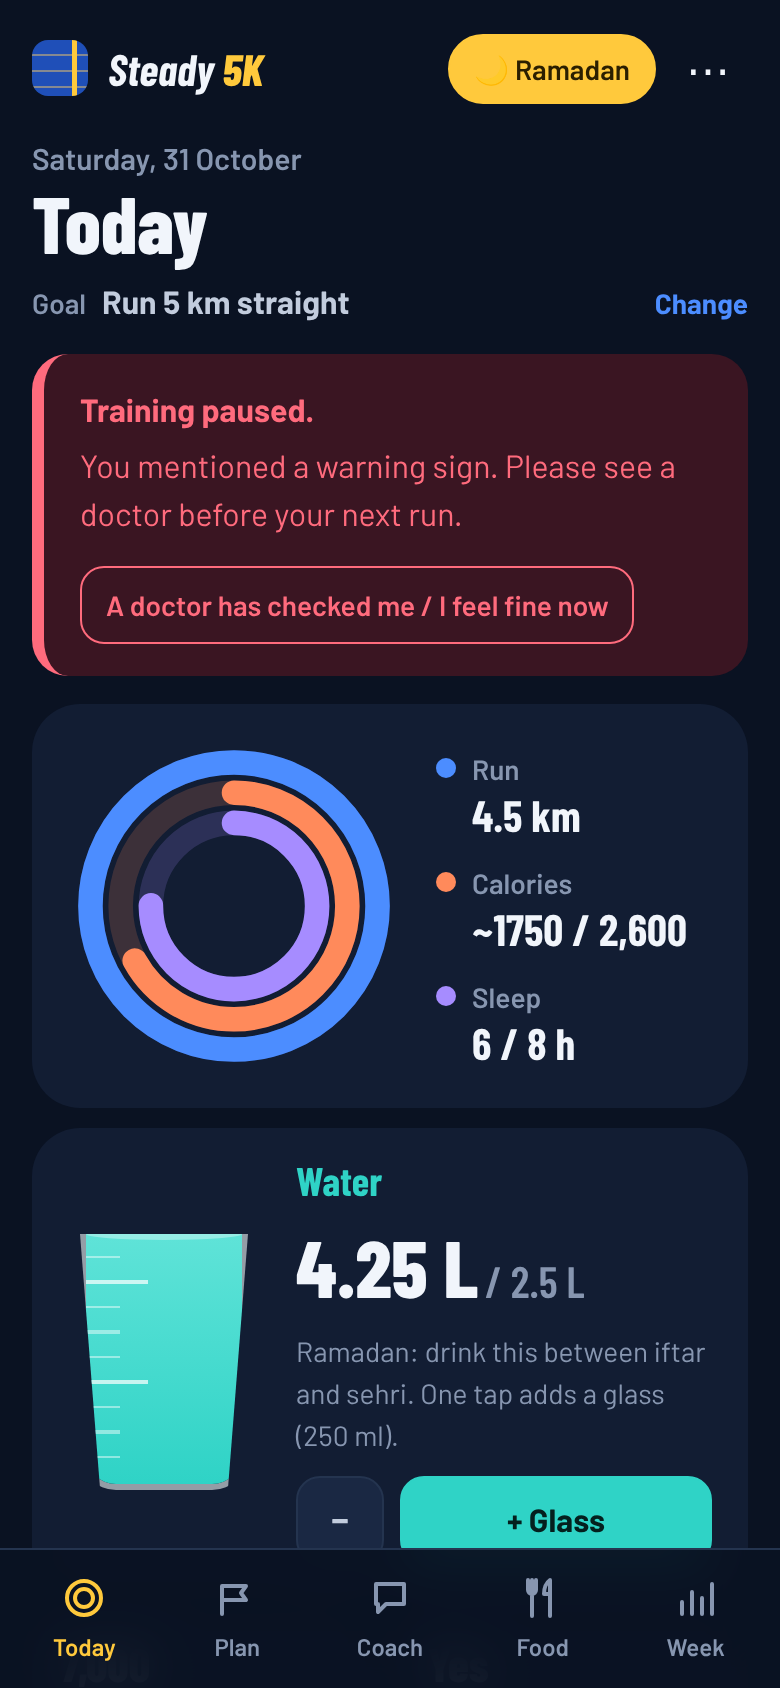
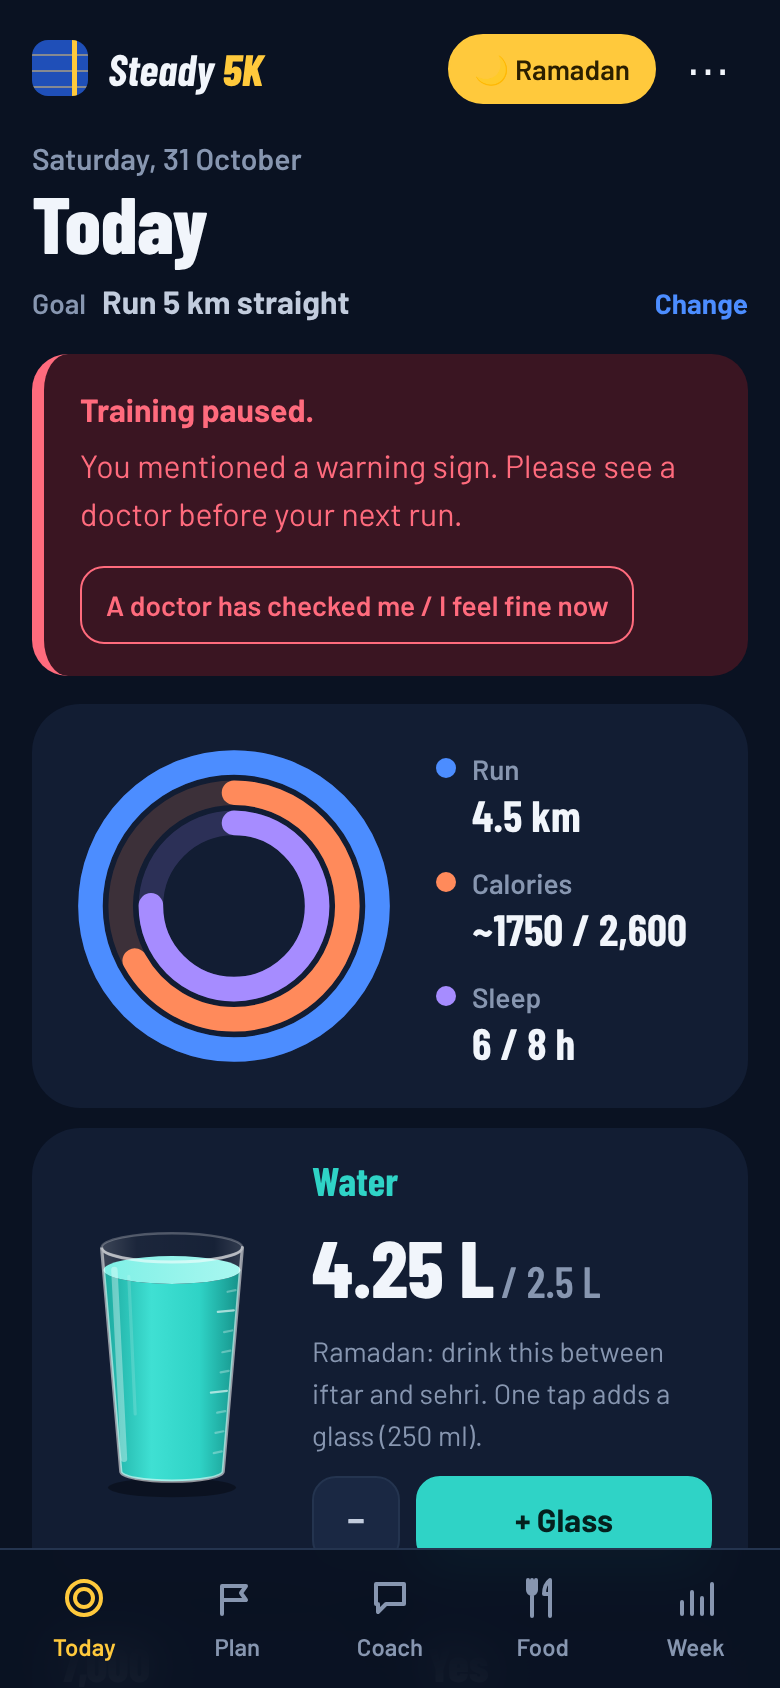
3D water glass: tapered tumbler with rim, reflections and measure marks; water pours in, rises smoothly and ripples
Claude-Session: https://claude.ai/code/session_01KnAXkYM5bv2tZhbofiWiib

diff --git a/app.js b/app.js
@@ -373,9 +373,58 @@
     save(); renderToday();
   }
 
+  // ---------- 3D water glass (SVG): tapered tumbler, rising water, pour and ripple ----------
+  const G = { rimY: 16, baseY: 156, rimW: 44, baseW: 32, rimRy: 9, baseRy: 6, maxY: 30 };
+  let glassLevel = null, glassAnim = 0;
+  const gW = (y) => G.baseW + (G.rimW - G.baseW) * (G.baseY - y) / (G.baseY - G.rimY);
+  const gRy = (y) => G.baseRy + (G.rimRy - G.baseRy) * (G.baseY - y) / (G.baseY - G.rimY);
+  const levelY = (f) => G.baseY - f * (G.baseY - G.maxY);
+  function paintLevel(f) {
+    const y = levelY(f), w = gW(y), ry = gRy(y);
+    const body = f <= 0.001 ? '' : `M${60 - w} ${y} L${60 - G.baseW} ${G.baseY} A${G.baseW} ${G.baseRy} 0 0 0 ${60 + G.baseW} ${G.baseY} L${60 + w} ${y} A${w} ${ry} 0 0 1 ${60 - w} ${y}Z`;
+    $('waterBody').setAttribute('d', body);
+    const top = $('waterTop');
+    top.setAttribute('cy', y); top.setAttribute('rx', f <= 0.001 ? 0 : w); top.setAttribute('ry', f <= 0.001 ? 0 : ry);
+  }
+  function drawGlass(f, glasses) {
+    $('glassBack').setAttribute('d', `M${60 - G.rimW} ${G.rimY} L${60 - G.baseW} ${G.baseY} A${G.baseW} ${G.baseRy} 0 0 0 ${60 + G.baseW} ${G.baseY} L${60 + G.rimW} ${G.rimY} A${G.rimW} ${G.rimRy} 0 0 0 ${60 - G.rimW} ${G.rimY}Z`);
+    $('glassFront').setAttribute('d', `M${60 - G.rimW} ${G.rimY} L${60 - G.baseW} ${G.baseY} A${G.baseW} ${G.baseRy} 0 0 0 ${60 + G.baseW} ${G.baseY} L${60 + G.rimW} ${G.rimY} A${G.rimW} ${G.rimRy} 0 0 1 ${60 - G.rimW} ${G.rimY}`);
+    $('glassMarks').innerHTML = Array.from({ length: glasses - 1 }, (_, i) => {
+      const y = levelY((i + 1) / glasses), x = 60 + gW(y);
+      return `<path d="M${x - ((i + 1) % 4 ? 7 : 12)} ${y + 1} L${x - 2} ${y}" stroke="#fff" stroke-opacity="${(i + 1) % 4 ? 0.3 : 0.6}" stroke-width="1.4" stroke-linecap="round"/>`;
+    }).join('');
+    const reduce = matchMedia('(prefers-reduced-motion: reduce)').matches;
+    if (glassLevel === null || reduce) { glassLevel = f; paintLevel(f); return; }
+    const from = glassLevel, to = f, t0 = performance.now(), dur = 900;
+    glassLevel = f; cancelAnimationFrame(glassAnim);
+    const step = (now) => {
+      const k = Math.min(1, (now - t0) / dur), e = 1 - Math.pow(1 - k, 3);
+      paintLevel(from + (to - from) * e);
+      if (k < 1) glassAnim = requestAnimationFrame(step);
+    };
+    glassAnim = requestAnimationFrame(step);
+  }
+  function pour(f) {
+    if (matchMedia('(prefers-reduced-motion: reduce)').matches) return;
+    const y = levelY(Math.min(1, f)), st = $('stream'), rp = $('ripple');
+    st.setAttribute('height', y + 20); st.style.transition = 'none'; st.setAttribute('opacity', '1');
+    rp.setAttribute('cy', y); rp.setAttribute('rx', 4); rp.setAttribute('ry', 1.5); rp.setAttribute('opacity', '1');
+    const t0 = performance.now();
+    const step = (now) => {
+      const k = Math.min(1, (now - t0) / 900);
+      st.setAttribute('opacity', k < 0.55 ? 1 : Math.max(0, 1 - (k - 0.55) / 0.45));
+      st.setAttribute('width', 7 - 4 * k); st.setAttribute('x', 60 - (7 - 4 * k) / 2);
+      const w = gW(y) * 0.9 * k;
+      rp.setAttribute('rx', Math.max(4, w)); rp.setAttribute('ry', Math.max(1.5, gRy(y) * 0.9 * k)); rp.setAttribute('opacity', 1 - k);
+      if (k < 1) requestAnimationFrame(step); else st.setAttribute('height', 0);
+    };
+    requestAnimationFrame(step);
+  }
+
   function addWater(delta) {
     S.logs.push({ date: dayKey(), at: Date.now(), kind: 'water', text: delta > 0 ? '+1 glass' : '−1 glass', parsed: { log: { water_l: delta, meals: [], symptoms: [] } } });
     save(); renderToday();
+    if (delta > 0) { const T2 = dayTotals(dayKey()); pour(T2.water_l / (S.ramadan ? 2.5 : 3)); }
   }
 
   // Calorie goal: only Rizwan sets it; the app never suggests a number and refuses unsafe ones.
@@ -427,8 +476,7 @@
     ];
     // Water glass: fills in 250 ml glasses towards 3 L (2.5 L between iftar and sehri in Ramadan)
     const glasses = Math.round(waterGoal / 0.25);
-    $('glassFill').style.height = Math.min(100, (T.water_l / waterGoal) * 100) + '%';
-    $('glassMarks').innerHTML = Array.from({ length: glasses - 1 }, (_, i) => `<i style="bottom:${((i + 1) / glasses) * 100}%"></i>`).join('');
+    drawGlass(Math.min(1, T.water_l / waterGoal), glasses);
     $('waterAmt').textContent = `${+T.water_l.toFixed(2)} L`;
     $('waterGoal').textContent = `/ ${waterGoal} L`;
     $('waterHint').textContent = S.ramadan ? 'Ramadan: drink this between iftar and sehri. One tap adds a glass (250 ml).' : T.water_l >= waterGoal ? 'Goal reached. Keep sipping if it is hot or you ran.' : `One tap adds a glass (250 ml). ${Math.ceil((waterGoal - T.water_l) / 0.25)} glasses to go.`;

diff --git a/index.html b/index.html
@@ -98,7 +98,27 @@
           <ul class="legend" id="legend"></ul>
         </section>
         <section class="water-card" aria-label="Water today">
-          <div class="glass" id="glass" aria-hidden="true"><div class="glass-fill" id="glassFill"></div><div class="glass-marks" id="glassMarks"></div></div>
+          <div class="glass3d" aria-hidden="true">
+            <svg viewBox="0 0 120 176" id="glassSvg">
+              <defs>
+                <linearGradient id="gGlass" x1="0" x2="1"><stop offset="0" stop-color="#fff" stop-opacity=".18"/><stop offset=".25" stop-color="#fff" stop-opacity=".04"/><stop offset=".8" stop-color="#fff" stop-opacity=".02"/><stop offset="1" stop-color="#fff" stop-opacity=".14"/></linearGradient>
+                <linearGradient id="gWater" x1="0" x2="1"><stop offset="0" stop-color="#1BA89E"/><stop offset=".35" stop-color="#3FE0D3"/><stop offset=".7" stop-color="#2FD3C6"/><stop offset="1" stop-color="#159088"/></linearGradient>
+                <linearGradient id="gTop" x1="0" x2="1"><stop offset="0" stop-color="#7FF0E6"/><stop offset="1" stop-color="#A9F7F0"/></linearGradient>
+                <linearGradient id="gStream" x1="0" x2="1"><stop offset="0" stop-color="#2FD3C6" stop-opacity=".5"/><stop offset=".5" stop-color="#B8FFF8"/><stop offset="1" stop-color="#2FD3C6" stop-opacity=".5"/></linearGradient>
+              </defs>
+              <ellipse cx="60" cy="166" rx="40" ry="6" fill="#000" opacity=".35"/>
+              <path id="glassBack" fill="url(#gGlass)"/>
+              <ellipse id="rimBack" cx="60" cy="16" rx="44" ry="9" fill="none" stroke="#fff" stroke-opacity=".25" stroke-width="1.5"/>
+              <rect id="stream" x="56.5" y="-20" width="7" height="0" rx="3.5" fill="url(#gStream)" opacity="0"/>
+              <path id="waterBody" fill="url(#gWater)"/>
+              <ellipse id="waterTop" cx="60" rx="0" ry="0" fill="url(#gTop)"/>
+              <ellipse id="ripple" cx="60" rx="0" ry="0" fill="none" stroke="#E6FFFC" stroke-width="1.5" opacity="0"/>
+              <g id="glassMarks"></g>
+              <path id="glassFront" fill="none" stroke="#fff" stroke-opacity=".55" stroke-width="2" stroke-linejoin="round"/>
+              <path d="M24 30 L30 148" stroke="#fff" stroke-opacity=".35" stroke-width="4" stroke-linecap="round"/>
+              <path d="M33 34 L37 120" stroke="#fff" stroke-opacity=".15" stroke-width="2" stroke-linecap="round"/>
+            </svg>
+          </div>
           <div class="water-info">
             <h3 class="sec-title">Water</h3>
             <p class="water-amt"><b id="waterAmt">0</b> <span id="waterGoal">/ 3 L</span></p>

diff --git a/style.css b/style.css
@@ -293,3 +293,8 @@ h1 { font-size: 46px; font-weight: 800; font-style: italic; margin: 14px 0 12px;
 #calGoalMsg { margin: 8px 0 0; }
 .ideas .slot { display: block; font-family: var(--display); font-size: 16px; color: var(--c-water); }
 .ideas li span { color: var(--ink); }
+
+/* ---------- 3D water glass ---------- */
+.glass3d { width: 96px; margin: 0 auto; }
+.glass3d svg { width: 96px; height: auto; display: block; overflow: visible; }
+.water-card { grid-template-columns: 104px 1fr; }
